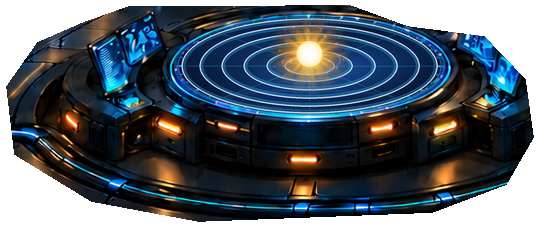
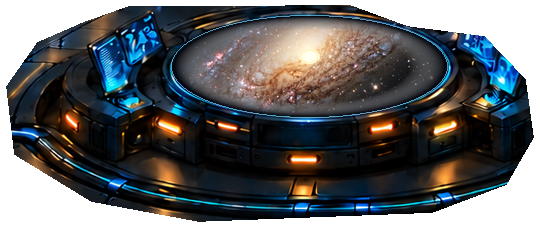
feat(kevin): realistic spiral galaxy dish with zero concentric rings and 3D perspective orbit

Changed region(s): [[0.2963, 0.0609, 0.8296, 0.5174]]

diff --git a/webview-ui/src/ductor/starshipV10KevinMotion.ts b/webview-ui/src/ductor/starshipV10KevinMotion.ts
@@ -272,44 +272,33 @@ export async function loadKevinPixelMotion(
         const theta = p.startAngle + p.speed * timeSec * speedMult;
         const gx = DISH_CX + Math.cos(theta) * p.r;
         const gy = DISH_CY + Math.sin(theta) * (p.r * ORBIT_Y_RATIO);
-        const sx = gx;
-        const sy = gy - p.floatZ;
+        const normDepth = (gy - DISH_CY) / 51.0;
+        const scale = 1.0 + normDepth * 0.12;
         return {
           ...p,
           gx,
           gy,
-          sx,
-          sy,
           depth: gy,
+          scale,
         };
       });
-
-      // Draw ground anchor pulses and cyan vertical laser elevation stems
-      for (const s of states) {
-        // Ground anchor pulse
-        frameCtx.fillStyle = 'rgba(224, 242, 254, 0.95)';
-        frameCtx.beginPath();
-        frameCtx.ellipse(s.gx, s.gy, 1.8, 0.9, 0, 0, Math.PI * 2);
-        frameCtx.fill();
-
-        // Laser altitude drop-line
-        frameCtx.strokeStyle = 'rgba(56, 189, 248, 0.70)';
-        frameCtx.lineWidth = 1;
-        frameCtx.beginPath();
-        frameCtx.moveTo(s.gx, s.gy);
-        frameCtx.lineTo(s.sx, s.sy);
-        frameCtx.stroke();
-      }
 
       // Sort back-to-front (depth = gy)
       states.sort((a, b) => a.depth - b.depth);
 
-      // Render bodies behind the Sun (gy < DISH_CY - 2)
+      // Render bodies behind the Sun (gy < DISH_CY - 10)
+      const sunY = DISH_CY - 10;
       for (const s of states) {
-        if (s.depth < DISH_CY - 2) {
-          const iw = s.image.naturalWidth;
-          const ih = s.image.naturalHeight;
-          frameCtx.drawImage(s.image, Math.round(s.sx - iw / 2), Math.round(s.sy - ih / 2));
+        if (s.depth < sunY) {
+          const iw = Math.round(s.image.naturalWidth * s.scale);
+          const ih = Math.round(s.image.naturalHeight * s.scale);
+          frameCtx.drawImage(
+            s.image,
+            Math.round(s.gx - iw / 2),
+            Math.round(s.gy - ih / 2),
+            iw,
+            ih,
+          );
         }
       }
 
@@ -317,10 +306,10 @@ export async function loadKevinPixelMotion(
       const sunBreath = 0.5 + 0.5 * Math.sin(timeSec * 2.5);
       const sunGlow = frameCtx.createRadialGradient(
         DISH_CX,
-        DISH_CY - 12,
+        sunY,
         4,
         DISH_CX,
-        DISH_CY - 12,
+        sunY,
         22,
       );
       sunGlow.addColorStop(0, 'rgba(255, 245, 180, ' + (0.28 + sunBreath * 0.10).toFixed(3) + ')');
@@ -328,15 +317,21 @@ export async function loadKevinPixelMotion(
       sunGlow.addColorStop(1, 'rgba(255, 95, 0, 0)');
       frameCtx.fillStyle = sunGlow;
       frameCtx.beginPath();
-      frameCtx.arc(DISH_CX, DISH_CY - 12, 22, 0, Math.PI * 2);
+      frameCtx.arc(DISH_CX, sunY, 22, 0, Math.PI * 2);
       frameCtx.fill();
 
-      // Render bodies in front of the Sun (gy >= DISH_CY - 2)
+      // Render bodies in front of the Sun (gy >= DISH_CY - 10)
       for (const s of states) {
-        if (s.depth >= DISH_CY - 2) {
-          const iw = s.image.naturalWidth;
-          const ih = s.image.naturalHeight;
-          frameCtx.drawImage(s.image, Math.round(s.sx - iw / 2), Math.round(s.sy - ih / 2));
+        if (s.depth >= sunY) {
+          const iw = Math.round(s.image.naturalWidth * s.scale);
+          const ih = Math.round(s.image.naturalHeight * s.scale);
+          frameCtx.drawImage(
+            s.image,
+            Math.round(s.gx - iw / 2),
+            Math.round(s.gy - ih / 2),
+            iw,
+            ih,
+          );
         }
       }
 
